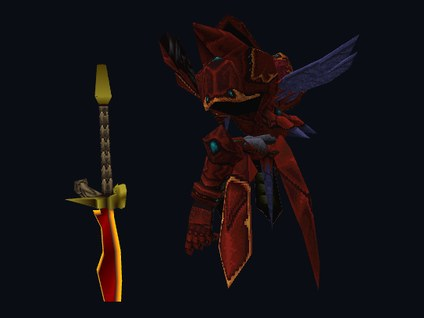
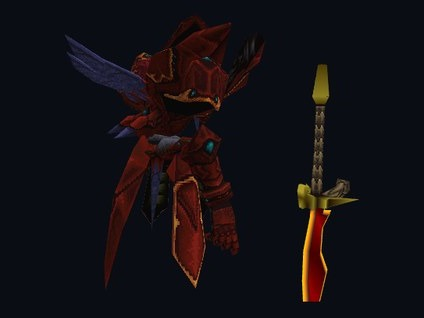
viewers: draw models with retail's handedness, not their mirror image
Settled against retail frames, not just GTE algebra. In the retail-compare
captures arts_bar_ideal_noa_fangs and arts_bar_astral_sword_vahn the engine's
battle render (retail-scored) matches retail pixel for pixel; Noa faces the
camera with her raised hand on screen-left and the extended Ra-Seru arm on
screen-right. Studio draws the same pose; the site's characters page drew
its mirror, and the site's monster table drew Lu Delilas as the mirror of
Studio's.

- site buildMvp (mesh-view.js: characters, NPCs, arts, shops, summons,
  model browser): flip X with Y - a half turn about Z, no reflection. The
  single-mesh pass now takes the assembled views' pair parity
  (u_pair_front 0), and the dance / fishing / in-world minigame pages drop
  their orbit-vs-engine winding swap: both chains share one parity now.
- site monsters.html buildMatrices: the same X+Y flip.
- engine-render orbit_camera_mvp (asset-viewer field / world / battle demos
  and the play window's F3 debug orbit): end in a Z flip so the callers'
  Y-only flip makes a rotation. Under the field pass's NCLIP cull the old
  mirrored debug orbit culled retail's front faces (town01 lost its whole
  floor); it now renders the town whole. Test
  orbit_camera_keeps_retail_handedness.
- Default yaws on those pages are negated so each view keeps its camera on
  the same side of the model; the image is the corrected one.
- Homepage tiles: monsters.jpg re-captured headless at the matching pose
[…]

Changed region(s): [[0.1533, 0.0566, 0.8585, 0.9623]]

diff --git a/site/js/play-minigames.js b/site/js/play-minigames.js
@@ -174,12 +174,9 @@
     /* A scene carrying an engine view-projection (the dance hall's entry
      * camera) draws through it instead of the orbit framing. */
     r.mvpOverride = sc.vp && sc.vp.length === 16 ? Float32Array.from(sc.vp) : null;
-    /* The engine projection carries the retail screen-X mirror the orbit
-     * framing does not, so its front faces wind the other way. */
-    const front = r.cullFrontFace;
-    if (r.mvpOverride) r.cullFrontFace = front === 'ccw' ? 'cw' : 'ccw';
+    /* The engine projection and the orbit framing share one parity (neither
+     * mirrors the model), so one front-face winding serves both. */
     r.render(sc.cam.yaw, sc.cam.pitch, sc.cam.distance, 0, 0, sc.center, sc.radius, sc.fov);
-    r.cullFrontFace = front;
     r.mvpOverride = null;
   }
 
@@ -325,12 +322,9 @@
     const c = r.canvas;
     const vp = rt.play_mg_fishing_scene_vp(c.width / Math.max(c.height, 1));
     r.mvpOverride = vp.length === 16 ? Float32Array.from(vp) : null;
-    /* The venue camera carries the retail screen-X mirror, so its front
-     * faces wind the other way (as the dance hall's engine camera does). */
-    const front = r.cullFrontFace;
-    if (r.mvpOverride) r.cullFrontFace = front === 'ccw' ? 'cw' : 'ccw';
+    /* The venue camera and the orbit framing share one parity (neither
+     * mirrors the model), so one front-face winding serves both. */
     r.render(0, 0, 1, 0, 0, [0, 0, 0], 1);
-    r.cullFrontFace = front;
     r.mvpOverride = null;
   }
 
@@ -567,7 +561,7 @@
       cam: { yaw: Math.PI, pitch: 0.24, distance: 2.7 },
       center: [0, -400, 0], radius: 900, fov: 0.85,
     };
-    const flags = env ? { cullBackfaces: true, cullFrontFace: 'ccw', semiTwoPass: true } : {};
+    const flags = env ? { cullBackfaces: true, cullFrontFace: 'cw', semiTwoPass: true } : {};
     if (!takeRenderer(view, rt.play_mg_dance_body_vram(), buf, flags)) return null;
     return sc;
   }

diff --git a/site/_content/monsters.html b/site/_content/monsters.html
@@ -993,7 +993,7 @@ canvas.mesh-viewer-canvas:active { cursor: grabbing; }
       this.indexCount = 0;
       this.center = [0, 0, 0];
       this.radius = 1;
-      this.cam = { yaw: 0.5, pitch: 0.2, distance: 2.6, autoRotate: true };
+      this.cam = { yaw: -0.5, pitch: 0.2, distance: 2.6, autoRotate: true };
       gl.enable(gl.DEPTH_TEST);
       gl.disable(gl.CULL_FACE); // PSX winding isn't consistent; draw both sides
       gl.clearColor(0, 0, 0, 0);
@@ -1249,7 +1249,7 @@ canvas.mesh-viewer-canvas:active { cursor: grabbing; }
     }
 
     resetView() {
-      this.cam = { yaw: 0.5, pitch: 0.2, distance: 2.6, autoRotate: true };
+      this.cam = { yaw: -0.5, pitch: 0.2, distance: 2.6, autoRotate: true };
       updateSpinLabel(this.cam.autoRotate);
     }
 
@@ -1382,14 +1382,17 @@ canvas.mesh-viewer-canvas:active { cursor: grabbing; }
   }
 
   // Build {mvp, normalMat} from the shared webgl-math helpers. The model is
-  // centered + uniformly scaled to a unit sphere (Y-flip for PSX +Y-down),
+  // centered + uniformly scaled to a unit sphere (X+Y flip for PSX +Y-down),
   // then orbited by the camera. Normals use the modelview's upper-3x3 so
   // lighting stays anchored to the camera as the model spins.
   function buildMatrices(cam, center, radius, w, h) {
     const s = 1.0 / radius;
     const T = translate(-center[0], -center[1], -center[2]);
     const S = scaleMat(s);
-    S[5] = -s; // flip Y
+    // Flip Y and X together: a half turn about Z, so PSX +Y-down comes out
+    // up without mirroring the model (a Y-only flip drew its mirror image).
+    S[0] = -s;
+    S[5] = -s;
     const M = mulMat4(S, T);
     const dist = Math.max(cam.distance, 0.01);
     const V = mulMat4(translate(0, 0, -dist), mulMat4(rotateX(cam.pitch), rotateY(cam.yaw)));

diff --git a/site/js/minigame-dance.js b/site/js/minigame-dance.js
@@ -306,7 +306,7 @@ window.MgDance = (function () {
          * audience/crowd billboard sits right behind the retail camera spot
          * and only disappears from the shot under the same rule. */
         renderer.cullBackfaces = true;
-        renderer.cullFrontFace = 'ccw';
+        renderer.cullFrontFace = 'cw';
         /* The hall's smoke columns / spotlight glows are ABE prims; the
          * two-pass render draws them additively instead of as grey slabs. */
         renderer.semiTwoPass = true;
@@ -409,7 +409,7 @@ window.MgDance = (function () {
       renderer.uploadMesh(pos, uvs, ct, idx, flat);
       if (env) {
         renderer.cullBackfaces = true;
-        renderer.cullFrontFace = 'ccw';
+        renderer.cullFrontFace = 'cw';
         renderer.semiTwoPass = true;
       }
       const defCam = { yaw: Math.PI, pitch: 0.24, distance: 2.7 };
@@ -586,13 +586,10 @@ window.MgDance = (function () {
         ? api.dance_venue_vp(c.width / Math.max(c.height, 1)) : null;
       b.renderer.mvpOverride = vp && vp.length === 16 ? Float32Array.from(vp) : null;
       setHallIndices(b, !!b.renderer.mvpOverride);
-      /* The engine projection carries the retail screen-X mirror the orbit
-       * framing does not, so its front faces wind the other way. */
-      const front = b.renderer.cullFrontFace;
-      if (b.renderer.mvpOverride) b.renderer.cullFrontFace = front === 'ccw' ? 'cw' : 'ccw';
+      /* The engine projection and the orbit framing share one parity (neither
+       * mirrors the model), so one front-face winding serves both. */
       b.renderer.render(b.cam.yaw, b.cam.pitch, b.cam.distance,
                         0, 0, b.center, b.radius, b.fov);
-      b.renderer.cullFrontFace = front;
       b.renderer.mvpOverride = null;
     }
 

diff --git a/site/js/webgl-math.js b/site/js/webgl-math.js
@@ -131,18 +131,23 @@ function scaleMat(s) {
  * mat4 layout). Centers the model at origin, scales to unit radius, rotates
  * Y then X, pushes back to camera space, perspective-projects.
  *
- * PSX TMD coords have +Y pointing down, so we negate Y in the model scale
- * to bring "up" back to +Y for the rest of the pipeline.
+ * PSX TMD coords have +Y pointing down. The model scale negates Y (to bring
+ * "up" back to +Y) AND X: the pair is a half turn about Z, not a reflection,
+ * so the model is not mirrored. The GTE draws model +X on the left of a model
+ * that faces the camera (screen x right, y down, z into the screen), and so
+ * does this; a Y-only flip drew every viewer's model as its mirror image
+ * (Noa's Ra-Seru on the wrong forearm against a retail battle frame). The
+ * camera still sits on the model's +Z side at yaw 0.
  *
  * `fovY` (optional, radians) overrides the default 1.2-rad vertical field of
  * view - the dance stage passes a narrower PSX-like value so its interior
  * framing matches the retail camera's apparent scale. */
 function buildMvp(yaw, pitch, distance, panX, panY, center, radius, viewportW, viewportH, fovY) {
   const s = 1.0 / radius;
-  /* Model: translate to origin, then non-uniform scale that flips Y. */
+  /* Model: translate to origin, then a half turn about Z (flip X and Y). */
   const T = translate(-center[0], -center[1], -center[2]);
   const S = new Float32Array([
-    s,  0,  0, 0,
+   -s,  0,  0, 0,    /* flip X with Y: a rotation, so no mirror image */
     0, -s,  0, 0,    /* flip Y: PSX +Y down → screen +Y up */
     0,  0,  s, 0,
     0,  0,  0, 1,

diff --git a/site/js/minigame-fishing.js b/site/js/minigame-fishing.js
@@ -108,7 +108,7 @@ window.MgFishing = (function () {
       const lead = b.members.length ? b.members[0].anchor : { x: 0, y: 0, z: 0, yaw: 0 };
       b.anchor = Object.assign({}, lead);
       const [fx, fz] = facingOf(b.anchor);
-      b.defCam = { yaw: lead.yaw, pitch: 0.22, distance: 0.55, orbit: false };
+      b.defCam = { yaw: -lead.yaw, pitch: 0.22, distance: 0.55, orbit: false };
       b.cam = Object.assign({}, b.defCam);
       b.center = [
         b.anchor.x + fx * 700,
@@ -270,13 +270,10 @@ window.MgFishing = (function () {
       if (posed) b.renderer.updatePositions(b.out);
       b.vp = engineVp();
       b.renderer.mvpOverride = b.vp;
-      /* The engine projection carries the retail screen-X mirror the orbit
-       * framing does not, so its front faces wind the other way. */
-      const front = b.renderer.cullFrontFace;
-      if (b.vp) b.renderer.cullFrontFace = front === 'ccw' ? 'cw' : 'ccw';
+      /* The engine projection and the orbit framing share one parity (neither
+       * mirrors the model), so one front-face winding serves both. */
       b.renderer.render(b.cam.yaw, b.cam.pitch, b.cam.distance,
                         0, 0, b.center, b.radius, b.fov);
-      b.renderer.cullFrontFace = front;
       b.renderer.mvpOverride = null;
     }
 

diff --git a/site/_content/shops.html b/site/_content/shops.html
@@ -505,7 +505,7 @@ asset shop-stock --prot extracted/PROT.DAT --scus extracted/SCUS_942.54 \
 
   const THUMB_PX = 96;
   const STILL_PX = 176;
-  const NPC_CAM = { yaw: Math.PI + 0.35, pitch: 0.12, distance: 2.1, autoRotate: true };
+  const NPC_CAM = { yaw: Math.PI - 0.35, pitch: 0.12, distance: 2.1, autoRotate: true };
 
   const norm = (s) => String(s || '').toLowerCase().replace(/[^a-z0-9]+/g, '');
   const gold = (n) => `${Number(n).toLocaleString()} G`;
@@ -698,7 +698,7 @@ asset shop-stock --prot extracted/PROT.DAT --scus extracted/SCUS_942.54 \
       const pos = viewer.equipped_item_only_positions(section);
       const idx = viewer.equipped_item_only_indices(section);
       if (!pos.length || !idx.length) throw new Error('the piece did not come away from the model on its own');
-      if (!itemView) itemView = new window.MeshView(itemCanvas, { cam: { yaw: 0.6, pitch: 0.15, distance: 2.4, autoRotate: true } });
+      if (!itemView) itemView = new window.MeshView(itemCanvas, { cam: { yaw: -0.6, pitch: 0.15, distance: 2.4, autoRotate: true } });
       itemView.uploadVram(viewer.equipped_vram_bytes());
       const uv = viewer.equipped_item_only_uvs(section);
       const uv8 = new Uint8Array(uv.length);

diff --git a/site/js/webgl-shaders.js b/site/js/webgl-shaders.js
@@ -677,9 +677,10 @@ uniform vec4 u_palette;
  * camera-facing copy; with culling off both copies draw and z-fight. Flagged
  * fragments keep exactly one copy per view: the front-facing one when
  * u_pair_front != 0, the back-facing one otherwise. The value encodes the
- * view chain's reflection parity - buildMvp's single Y-flip projections keep
- * front (1); the assembled views add the retail screen-X mirror on top (two
- * reflections), which inverts gl_FrontFacing, so they keep back (0). */
+ * view chain's reflection parity: the assembled views (Y flip + the retail
+ * screen-X mirror) and buildMvp (X + Y flip) are both two reflections, a
+ * rotation, so they keep back (0); an engine-built single-mesh override
+ * keeps front (1). */
 uniform int u_pair_front;
 /* Retail GTE **NCLIP** winding rejection, as a fragment test. 0 (the GL
  * default) draws both sides - the engine's rasterizer pipelines do the same,

diff --git a/site/js/webgl-tmd.js b/site/js/webgl-tmd.js
@@ -665,9 +665,10 @@ class TmdRenderer {
     if (this.locGrade) gl.uniform4f(this.locGrade, 1, 1, 1, 0);
     if (this.locPalette) gl.uniform4f(this.locPalette, 1, 1, 1, 0);
     this._setCue(null);
-    /* buildMvp = single reflection (Y flip): a double-sided pair's visible
-     * copy is the front-facing one under this projection. */
-    gl.uniform1i(this.locPairFront, 1);
+    /* buildMvp is a rotation (X and Y flipped), the same parity as
+     * renderAssembled's Y flip + screen-X mirror, so it takes that pass's
+     * pair flag. An engine-built override keeps the flag it always had. */
+    gl.uniform1i(this.locPairFront, this.mvpOverride ? 1 : 0);
     gl.uniform1i(this.locNoDisc, 0);  /* per-mesh inspector: keep cutout discard */
     /* Single-mesh inspector: legacy single pass (no semi-transparency defer,
      * ABE prims draw opaque) - only renderAssembled runs the blend pass. */

diff --git a/site/_content/characters.html b/site/_content/characters.html
@@ -1333,7 +1333,7 @@ canvas.char-viewer-canvas:active { cursor: grabbing; }
       if (meshView && typeof meshView.dispose === 'function') meshView.dispose();
       // The field-form TMDs rest facing the opposite way from the battle
       // models; the default framing turns to meet the character's face.
-      const yaw = 0.4 + (curForm === 'field' ? Math.PI : 0);
+      const yaw = -0.4 + (curForm === 'field' ? Math.PI : 0);
       meshView = new window.MeshView(canvasEl, { onSpin: updateSpinLabel, cam: { yaw, distance: 2.2 } });
       _loadedBattleVramForm = null;
     }

diff --git a/site/_content/npcs.html b/site/_content/npcs.html
@@ -663,7 +663,7 @@ canvas.npc-canvas:active { cursor: grabbing; }
        * the default half a turn so they're introduced face-on. */
       meshView = new window.MeshView(canvasEl, {
         onSpin: updateSpinLabel,
-        cam: { yaw: Math.PI + 0.35, pitch: 0.12, distance: 2.6, autoRotate: true },
+        cam: { yaw: Math.PI - 0.35, pitch: 0.12, distance: 2.6, autoRotate: true },
       });
       /* Headless-verification hook: lets a browser test assert the posed
        * geometry actually assembles (an unposed multi-part model collapses to

diff --git a/site/js/mesh-view.js b/site/js/mesh-view.js
@@ -50,7 +50,7 @@
       this.onSpin = o.onSpin || null;
       this.onFrame = null;
       this.defaultCam = Object.assign(
-        { yaw: 0.4, pitch: 0.1, distance: 2.6, autoRotate: true }, o.cam || {});
+        { yaw: -0.4, pitch: 0.1, distance: 2.6, autoRotate: true }, o.cam || {});
       this.zoom = Object.assign({ min: 1.4, max: 8 }, o.zoom || {});
       this.cam = Object.assign({}, this.defaultCam);
 

diff --git a/site/js/arts-viewer.js b/site/js/arts-viewer.js
@@ -222,7 +222,7 @@
         && this.api.art_fanfare_pcm_i16) ? this.charState.fanfare : null;
       if (!this.view) {
         this.view = new window.MeshView(this.els.canvas, {
-          cam: { yaw: Math.PI / 2, pitch: 0.05, distance: 2.2, autoRotate: false },
+          cam: { yaw: -Math.PI / 2, pitch: 0.05, distance: 2.2, autoRotate: false },
           zoom: { min: 1.2, max: 6 },
         });
       }
